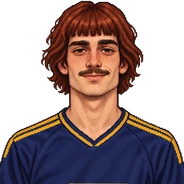
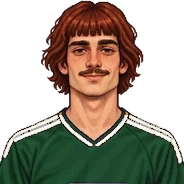
1.9.118: camiseta de Leandro Pereyra en verde y blanco
Claude-Session: https://claude.ai/code/session_018UFpU1d8ZLEVkvV1kBCNUa

Changed region(s): [[0.0, 0.5978, 1.0, 1.0]]

diff --git a/game.js b/game.js
@@ -1,4 +1,4 @@
-/* RECIPE, PLEASE — Edición 1.9.117. Veintitrés pacientes chilenos más (48 en total); carnets de pelo rubio y rojo válidos, carnet falso de pelo negro, caso sin carnet con quetiapina 50 mg, menor de 17; carnet con pelo azul válido; carnets pendientes sin accesorio; mecanismo de carnet falso. */
+/* RECIPE, PLEASE — Edición 1.9.118. Veintitrés pacientes chilenos más (48 en total); carnets de pelo rubio y rojo válidos, carnet falso de pelo negro, caso sin carnet con quetiapina 50 mg, menor de 17; carnet con pelo azul válido; carnets pendientes sin accesorio; mecanismo de carnet falso. */
 'use strict';
 const TUGUEL_FIRST_VISIT_INDEX=2;
 const SIS_UNLOCK_DAY=2;
@@ -875,7 +875,7 @@ function makePatient(kind,n=0,tmTitle='Médico Cirujano'){let config={
  if(kind==='tuguelExpired'){p.idIssued='22/10/2018';p.idExpires='22/10/2026';p.idValidityYears=8;p.idDateSystem=2;}if(kind==='tuguelFake'){p.idIssued='16/11/2026';p.idExpires='16/11/2034';p.idDateSystem=2;}p.quote=patientDialogue(p);return p;
 }
 
-// ===== Diálogos personalizados (1.9.117) =====
+// ===== Diálogos personalizados (1.9.118) =====
 // Estado de ánimo según la cara del sprite. Para sprites nuevos: mirar la hoja de contactos
 // (gen/contact_sheet.py) y añadir el id aquí; lo que no esté listado se considera neutro.
 const CAST_MOODS={752:'happy',756:'happy',757:'happy',759:'happy',772:'happy',776:'happy',777:'happy',781:'happy',786:'happy',789:'happy',797:'happy',806:'happy',
@@ -2324,7 +2324,7 @@ function wrap(body){
   toastEl.classList.remove('show');
  }
  const returning=modal?null:modalOpener;
- app.innerHTML=`<main class="shell" data-practice-step="${game.tutorial?game.patientIndex:''}"${modal?' inert aria-hidden="true"':''}>${['welcome','prologue'].includes(game.scene)||game.gameOverReason==='day-seven-false-prescription'?'':header()}${body}</main><div class="footer">RECIPE, PLEASE · Edición 1.9.117 · Una obra de ficción. Simulación farmacéutica simplificada, no una guía clínica ni normativa.</div>${modal}`;
+ app.innerHTML=`<main class="shell" data-practice-step="${game.tutorial?game.patientIndex:''}"${modal?' inert aria-hidden="true"':''}>${['welcome','prologue'].includes(game.scene)||game.gameOverReason==='day-seven-false-prescription'?'':header()}${body}</main><div class="footer">RECIPE, PLEASE · Edición 1.9.118 · Una obra de ficción. Simulación farmacéutica simplificada, no una guía clínica ni normativa.</div>${modal}`;
  bindDrag();
  if(!modal){
   clearModalRendering();
@@ -2366,7 +2366,7 @@ function btn(text,act,cls='dark',extra=''){return `<button class="btn ${cls}" da
 function actionbar(items){return `<div class="actionbar">${items.map(x=>btn(...x)).join('')}</div>`}
 function menuHtml(){clearModalRendering();if(TACA_PREVIEW){
  app.innerHTML='<main class="shell"><section class="menu-options"><h1>¡Campeones de taca-taca!</h1><div class="btn-row"><a class="btn cream" href="./?escenas=carlitos">Volver a probar las escenas</a><a class="btn green" href="./">Jugar la versión completa</a></div></section></main>';return;
- }let saved=load();app.innerHTML=`<main class="shell">${stage('menu','EDICIÓN JUGABLE · VERSIÓN 1.9.117','Su receta, por favor · una decisión, una consecuencia')}<section class="menu-options textured-menu"><div class="menu-audio" role="group" aria-label="Sonido y música"><button class="smallbtn audio-toggle" data-action="toggle-sound" aria-pressed="${ui.soundEnabled?'true':'false'}">${ui.soundEnabled?'♫ SONIDO: SÍ':'♪ SONIDO: NO'}</button><button class="smallbtn music-toggle" data-action="toggle-music" aria-pressed="${ui.musicEnabled?'true':'false'}">${ui.musicEnabled?'♬ MÚSICA: SÍ':'♩ MÚSICA: NO'}</button></div><h1>UNA RECETA.<br>UNA DECISIÓN.<br>UNA CONSECUENCIA.</h1><p>Eres el químico farmacéutico de una farmacia de barrio. Revisa documentos, recibe pedidos, controla medicamentos y cuida de tu familia. Las decisiones no siempre son fáciles.</p><div class="btn-row">${btn('▶ NUEVA PARTIDA','new','green')}${saved?btn('▣ CONTINUAR PARTIDA','continue','cream'):''}</div><div class="difficulty"><b>Esta versión ya permite:</b><p class="small">Pacientes sin repetición durante la campaña · firmas caligráficas · regalos animados · documentos con texturas · documentos arrastrables · atención y validación de recetas · comparación ampliada · recepción física de pedidos · reportes · libros correlativos · fiscalizaciones y rectificaciones · remuneración · familia y Carlitos · eventos clandestinos.</p><p class="tiny muted">Contiene una campaña de demostración con jornadas repetibles. El arte es un prototipo derivado de los bocetos aprobados; las reglas de juego no sustituyen procedimientos sanitarios reales.</p></div></section></main>`}
+ }let saved=load();app.innerHTML=`<main class="shell">${stage('menu','EDICIÓN JUGABLE · VERSIÓN 1.9.118','Su receta, por favor · una decisión, una consecuencia')}<section class="menu-options textured-menu"><div class="menu-audio" role="group" aria-label="Sonido y música"><button class="smallbtn audio-toggle" data-action="toggle-sound" aria-pressed="${ui.soundEnabled?'true':'false'}">${ui.soundEnabled?'♫ SONIDO: SÍ':'♪ SONIDO: NO'}</button><button class="smallbtn music-toggle" data-action="toggle-music" aria-pressed="${ui.musicEnabled?'true':'false'}">${ui.musicEnabled?'♬ MÚSICA: SÍ':'♩ MÚSICA: NO'}</button></div><h1>UNA RECETA.<br>UNA DECISIÓN.<br>UNA CONSECUENCIA.</h1><p>Eres el químico farmacéutico de una farmacia de barrio. Revisa documentos, recibe pedidos, controla medicamentos y cuida de tu familia. Las decisiones no siempre son fáciles.</p><div class="btn-row">${btn('▶ NUEVA PARTIDA','new','green')}${saved?btn('▣ CONTINUAR PARTIDA','continue','cream'):''}</div><div class="difficulty"><b>Esta versión ya permite:</b><p class="small">Pacientes sin repetición durante la campaña · firmas caligráficas · regalos animados · documentos con texturas · documentos arrastrables · atención y validación de recetas · comparación ampliada · recepción física de pedidos · reportes · libros correlativos · fiscalizaciones y rectificaciones · remuneración · familia y Carlitos · eventos clandestinos.</p><p class="tiny muted">Contiene una campaña de demostración con jornadas repetibles. El arte es un prototipo derivado de los bocetos aprobados; las reglas de juego no sustituyen procedimientos sanitarios reales.</p></div></section></main>`}
 function briefingHtml(){return `${stage('pharmacy',`MEMORÁNDUM · DÍA ${z(game.day)}`,'Inicio del turno farmacéutico')}<section class="content"><div class="content-grid"><div class="paper"><h2>CIRCULAR INTERNA</h2><p><b>Fecha:</b> ${dateOf(game.day)}</p><p><b>Jornada:</b> ${z(game.day)} / Simulación</p><hr><p>${game.day===1?'Revise identidad, tipo de receta y condiciones de dispensación. Un documento vencido debe devolverse sin denuncia automática.':game.day===2?'Desde hoy puede recibir una fiscalización. Mantenga al día el Libro y valide el código de barras de cada receta electrónica antes de dispensar.':'Las alertas de talonarios robados y las discrepancias de inventario pueden relacionarse con casos anteriores. Revisa el teléfono ☎ en la barra superior.'}</p>${game.day>=3?'<p class="pill bad">ALERTA: FOLIOS 003450–003499</p>':''}<p class="mini">Catálogo ampliado por principio activo y concentración. Recetas simples sin libro especial de control. Todos los pacientes son ficticios.</p></div><div class="dark-card"><h2>ESTADO DE LA FARMACIA</h2><div class="money-line"><span>Pacientes programados</span><strong>${game.patients.length}</strong></div><div class="money-line"><span>Pedidos por recibir</span><strong>1</strong></div><div class="money-line"><span>Asientos pendientes</span><strong>${game.dispatches.filter(x=>!x.posted).length+game.receipts.filter(x=>!x.posted).length}</strong></div><div class="money-line"><span>Dinero familiar</span><strong>${pesos(game.cash)}</strong></div><div class="notice ${game.day>=3?'warn':''}">El hijo del protagonista se llama <b>Carlitos</b> y padece el síndrome ficticio de Neibacache.</div></div></div></section>${actionbar([['▶ COMENZAR ATENCIÓN','go-counter','green'],['▤ CONSULTAR LIBRO','book','cream'],['? VER MANUAL','manual','dark']])}`}
 function declaresTechnologistTitle(p){
  return p.kind==='tmFraud'&&p.claimedTitle==='Tecnólogo Médico';
@@ -2375,7 +2375,7 @@ function prescriberNameOnPrescription(p){
  return p.claimedTitle?p.prescriber.replace(/^(?:TM|Pod)\.\s*/,''):p.prescriber;
 }
 // Recetas con plantilla ilustrada: la imagen es el fondo y los datos se escriben sobre sus espacios en blanco (coordenadas en píxeles de la imagen).
-// 1.9.117 · Domicilios estables por persona; el del paciente nunca coincide con el del consultorio.
+// 1.9.118 · Domicilios estables por persona; el del paciente nunca coincide con el del consultorio.
 function rxHash(str){let h=2166136261;for(const c of String(str)){h^=c.charCodeAt(0);h=Math.imul(h,16777619)>>>0}return h}
 const RX_HOME_STREETS=['Los Aromos','Pasaje Las Lilas','Calle Los Nogales','Av. Santa Rosa','Los Copihues','Pasaje El Roble','Av. La Florida','Calle Maipú','Los Alerces','Av. Vicuña Mackenna','Pasaje Los Olmos','Calle San Martín','Av. Gran Avenida','Los Peumos','Pasaje Las Violetas','Calle O\'Higgins','Av. Pedro Aguirre Cerda','Los Boldos','Pasaje Arrayán','Calle Esmeralda'];
 const RX_HOME_COMUNAS=['Santiago','Ñuñoa','La Florida','Maipú','Puente Alto','San Miguel','Quilicura','Peñalolén','La Cisterna','Independencia'];
@@ -2454,7 +2454,7 @@ function rxTemplateHtml(p){
  }
  return `<div class="paper doc draggable rx-tpl rx-tpl-${key} ${documentWearClass(p,'rx')}" data-drag="rx" title="${title}" aria-label="${labelTxt}" style="--tpl-img:url('${assetUrl(t.img)}');--tpl-ink:${t.ink};aspect-ratio:${t.w}/${t.h}">${f}</div>`;
 }
-// 1.9.117 · Recetas simples/retenidas/controladas: 20 diseños, todos con la misma probabilidad.
+// 1.9.118 · Recetas simples/retenidas/controladas: 20 diseños, todos con la misma probabilidad.
 // [x,y,w,h de la insignia FOLIO, y de cada fila de datos] medidos por diseño
 const RX_SIMPLE_LAYOUT=[[816,92,187,93,276,344,411,477,543],[820,93,181,91,276,345,412,478,544],[818,93,186,91,276,344,411,478,543],[819,92,187,94,276,344,411,477,544],[818,93,186,90,275,344,411,477,543],[812,90,201,96,276,345,411,477,544],[816,110,181,91,287,347,407,468,528],[819,92,186,92,275,341,406,470,533],[818,89,184,96,277,344,411,477,543],[818,93,185,91,275,344,411,477,544],[818,92,185,92,274,343,411,478,544],[817,92,189,94,276,345,412,478,544],[810,109,182,87,276,342,407,471,536],[819,92,185,93,276,345,412,477,543],[819,91,186,95,275,344,411,477,543],[817,125,182,89,296,360,422,483,546],[820,92,186,93,276,345,412,478,544],[818,92,186,93,276,344,411,477,544],[817,92,189,93,275,344,411,477,543],[816,87,190,102,276,345,411,477,543]];
 const RX_SIMPLE_COUNT=20,RX_SIMPLE_W=1060,RX_SIMPLE_H=1484,RX_SIMPLE_INK='#14203f';
@@ -2808,7 +2808,7 @@ function homeHtml(){
 }
 
 function gameOverHtml(){if(game.gameOverReason==='day-seven-false-prescription')return daySevenEndingHtml();if(game.gameOverReason==='reincidencia-cheque')return `${stage('inspection','FIN DE LA PARTIDA · REINCIDENCIA DOCUMENTAL','Final alternativo')}<section class="content"><div class="paper center"><h2>SEGUNDA ADVERTENCIA · CASO POLICIAL</h2><p>La persona volvió con otra receta blanca para un medicamento que requería cheque. Tras dos denuncias comprobadas, el paciente termina detenido y el caso queda cerrado.</p><p>FIN</p></div></section>${actionbar([['NUEVA PARTIDA','new','green'],['MENÚ PRINCIPAL','menu','dark']])}`;return `${stage('inspection','FIN DE LA PARTIDA · LA ÚLTIMA DISPENSACIÓN','Final secreto')}<section class="content"><div class="paper center"><h2>INVESTIGACIÓN Y CONDENA</h2><p>El cliente encubierto se identificó como fiscalizador tras la dispensación clandestina.</p><p>La investigación posterior termina en una condena de prisión para el protagonista.</p><p><b>FIN</b></p><p class="mini">La situación es un recurso narrativo ficticio; no representa un resultado judicial automático en Chile.</p></div></section>${actionbar([['NUEVA PARTIDA','new','green'],['MENÚ PRINCIPAL','menu','dark']])}`}
-// ===== Manual práctico (1.9.117) =====
+// ===== Manual práctico (1.9.118) =====
 const MANUAL_TABS=['INICIO','RECETAS','CÉDULAS','DECISIONES','MEDICAMENTOS','INVENTARIO','SEREMI','SIS','CONTROLES','SOBRE LOS DATOS'];
 // Botón de muestra: se ve igual que el del juego pero no hace nada.
 function mb(label,cls='dark'){return `<span class="btn ${cls} mbtn" aria-hidden="true">${label}</span>`}
@@ -3235,7 +3235,7 @@ function inspectionHtml(){
  const title=finished?'FISCALIZACIÓN FINALIZADA':'ACTA DE INSPECCIÓN';
  return `${stage('inspection','FISCALIZACIÓN · SEREMI','Revisión de registros y antecedentes')}<section class="content"><div class="content-grid"><div class="paper"><h2>${title}</h2><p>${escapeText(issue.text||'Revisión de inventario y recetas.')}</p><p class="small">${relevant}</p>${btn('▤ CONSULTAR RESPALDO','proof','cream')}</div><div class="dark-card"><h2>${finished?'RESULTADO REGISTRADO':'DECISIÓN'}</h2>${finished?`<p><b>${result.action==='rectify'?'Rectificación registrada.':issue.type==='clean'?'Fiscalización sin observaciones.':'Observación aceptada.'}</b></p><p>${result.fine?'Multa aplicada una sola vez: '+pesos(result.fine):'Sin multa en esta fiscalización.'}</p><p class="small">El acta ya está cerrada; no se pueden volver a aplicar faltas por el mismo expediente.</p>${btn('CONTINUAR AL CIERRE →','inspection-continue','green')}`:`${issue.type==='clean'?'':`<label class="inspection-consent" for="inspectionConsent"><input id="inspectionConsent" type="checkbox" ${consent?'checked':''}><span>Estoy de acuerdo con la fiscalización, asumo mi responsabilidad y me comprometo a que no se vuelva a repetir.</span></label>`}${btn('REGISTRAR RECTIFICACIÓN Y CERRAR','inspect-rectify','green',issue.proof?'':'disabled')}${btn(issue.type==='clean'?'CERRAR FISCALIZACIÓN':'ACEPTAR OBSERVACIÓN Y CERRAR','inspect-acknowledge','amber',issue.type==='clean'||consent?'':'disabled')}`}</div></div></section>`;
 }
-// 1.9.117 · Precarga en segundo plano de los sprites de los próximos pacientes (cuerpo + carnet).
+// 1.9.118 · Precarga en segundo plano de los sprites de los próximos pacientes (cuerpo + carnet).
 const PRELOADED=new Set();
 function preloadUpcomingPortraits(ahead=4){
  if(typeof Image==='undefined'||!game||!Array.isArray(game.patients))return;

diff --git a/index.html b/index.html
@@ -5,13 +5,13 @@
 <meta name="viewport" content="width=device-width, initial-scale=1, viewport-fit=cover">
 <link rel="icon" type="image/png" href="assets/branding/recipe-please-logo.png">
 <meta name="theme-color" content="#222c27">
-<meta name="description" content="RECIPE, PLEASE — Simulador narrativo farmacéutico, versión jugable 1.9.117 móvil.">
-<title>RECIPE, PLEASE · Edición 1.9.117 móvil</title>
-<link rel="stylesheet" href="styles.css?v=1.9.117">
+<meta name="description" content="RECIPE, PLEASE — Simulador narrativo farmacéutico, versión jugable 1.9.118 móvil.">
+<title>RECIPE, PLEASE · Edición 1.9.118 móvil</title>
+<link rel="stylesheet" href="styles.css?v=1.9.118">
 </head>
 <body>
 <div id="app"></div>
 <div id="toast" role="status" aria-live="polite"></div>
-<script src="game.js?v=1.9.117" defer></script>
+<script src="game.js?v=1.9.118" defer></script>
 </body>
 </html>
